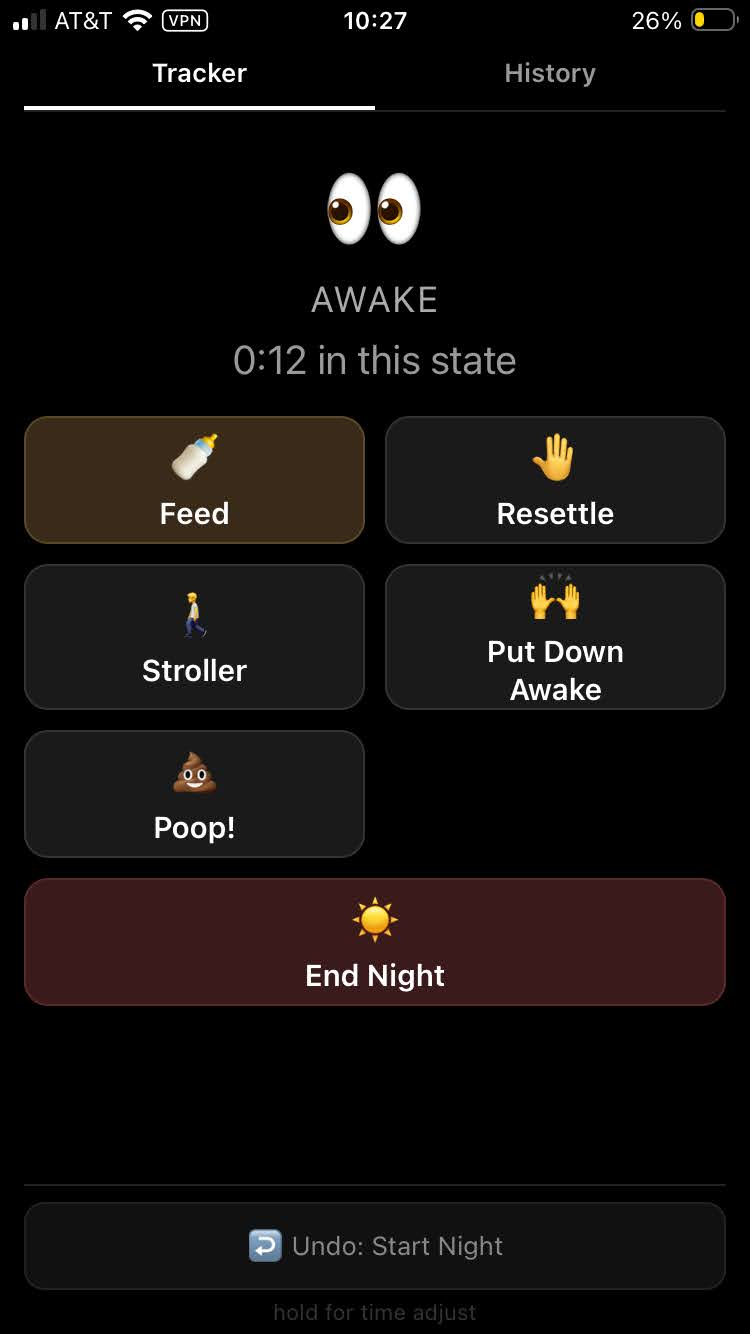
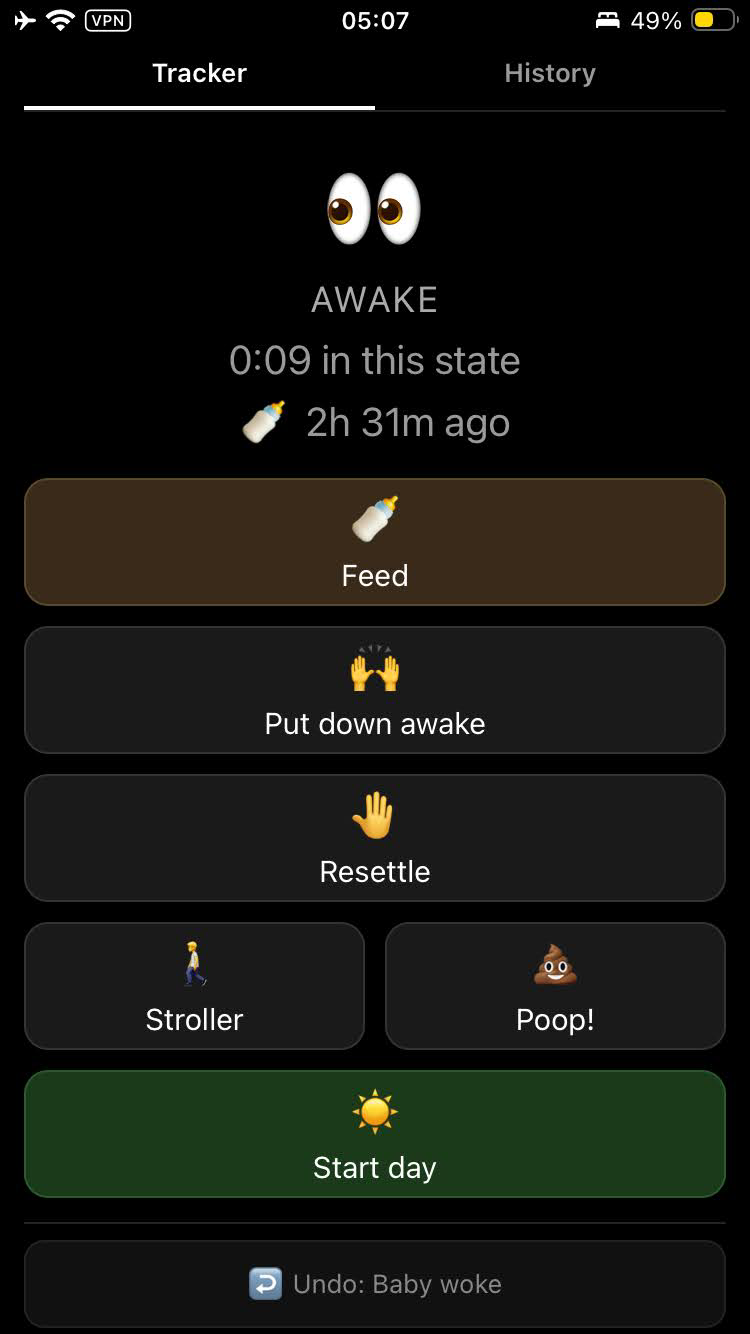
docs: refresh README screenshots and clean up content
Refresh stale screenshots, restructure "What it reports" by tab,
correct two outright wrong claims (PWA service worker, test count),
add backup/anchor/seed-binary docs that were missing, and dedup
phrasing introduced over multiple edit sessions. Also adds
CHAIR_ENABLED to docker-compose.yml for symmetry with FERBER_ENABLED.

diff --git a/README.md b/README.md
@@ -1,16 +1,22 @@
 # Boob O'Clock
 
-A 24-hour baby sleep and feed tracker for breastfeeding parents. Built for one-handed use on a small phone screen.
+A self-hosted, open-source 24-hour baby sleep and feed tracker for breastfeeding parents. No account, no cloud — your data stays on your network. Built for one-handed use on a small phone screen.
 
 Dark mode only. Single tap to record events. Long-press for time adjustments.
+
+<p align="center">
+  <img src="docs/tracker-awake.png" width="250" alt="Tracker — nighttime awake state">
+  <img src="docs/cycles.png" width="250" alt="Cycle card — combined night and day stats">
+  <img src="docs/trends.png" width="250" alt="Trend charts — 24h timelines and intra-sleep feed times">
+</p>
 
 ## Why I built this
 
 It started in the thick of newborn nights. At 3am, mid-feed, I genuinely could not remember which side and when I'd last fed on — and every baby tracker I found wanted an account, cloud sync, and a bright white screen in my face. So I vibecoded this for myself in a few evenings, and it's already been useful enough that I wanted to share it.
 
-As the baby got older, more questions came up alongside the old ones. At 3am: "which side last?" During the day: "how long has the baby been awake?" and "was that nap 20 minutes or 45?" So the app grew a day mode — same state-machine approach, now covering the full 24-hour rhythm.
+As the baby got older, more questions came up alongside the old ones. Middle of the night: "which side last?" During the day: "how long has the baby been awake?" and "was that nap 20 minutes or 45?" So the app grew a day mode — same state-machine approach, now covering the full 24-hour rhythm.
 
-Just your data, on your network, no account and no ads. If Boob O'Clock helped you survive the infant days and nights, you can [buy me a coffee](https://ko-fi.com/polinaturcu) — it means a lot.
+If Boob O'Clock helped you survive the infant days and nights, you can [buy me a coffee](https://ko-fi.com/polinaturcu) — it means a lot.
 
 ## What it tracks
 
@@ -23,38 +29,38 @@ The app models your day and night as a single state machine. Depending on the cu
 - **Self-soothing** — baby put down awake or stirring in crib, settling without intervention.
 - **Resettling** — in-crib settling without a feed.
 - **Strolling** — the nuclear option when the crib isn't working.
-- **Ferber mode** _(off by default)_ — graduated check-in intervals (classic Ferber table), mood tracking (quiet / fussy / crying), and a countdown on the check-in button so you never check in too early. I tried it — the feature worked fine; the method, not so much. Set `FERBER_ENABLED=true` to opt in (no rebuild needed); toggle off any time — past Ferber data stays in the DB and reappears when you turn it back on.
-- **Chair mode** _(off by default)_ — gentle sleep-training where the parent sits in the room while baby falls asleep. On chair nights, "put down awake" is replaced with "sit in chair" — tap when you settle into the chair, then "Settled!" when baby's asleep or "Give up" to abandon. Time-in-state and time-since-feed render live so a partner can glance from across the room. Set `CHAIR_ENABLED=true` to opt in.
+- **Diaper changes** — log a poop from any state without losing context.
+- <a id="ferber-mode"></a>**Ferber mode** _(off by default)_ — graduated check-in intervals (classic Ferber table), mood tracking (quiet / fussy / crying), and a countdown on the check-in button so you never check in too early. I tried it — the feature worked fine; the method, not so much. Set `FERBER_ENABLED=true` to opt in (no rebuild needed); toggle off any time — past Ferber data stays in the DB and reappears when you turn it back on.
+- <a id="chair-mode"></a>**Chair mode** _(off by default)_ — gentle sleep-training where the parent sits in the room while baby falls asleep. On chair nights, "put down awake" is replaced with "sit in chair" — tap when you settle into the chair, then "Settled!" when baby's asleep or "Give up" to abandon. Time-in-state and time-since-feed render live so a partner can glance from across the room. Set `CHAIR_ENABLED=true` to opt in.
 
 ### Day
 - **Day feeds** — same feed tracking as night, with switch-breast suggestion based on the last side.
 - **Naps** — tagged with location (crib / stroller / on me / car). Durations roll up to daily nap stats.
 - **Wake windows** — automatically derived from the awake/nap rhythm, including the last wake window before bedtime.
+- **Diaper changes** — log a poop from any state without losing context.
 
-**Diaper changes** are reachable anytime, day or night. The tracker moves between day and night with a single **Start day** / **Start night** tap — no separate "end" action.
+The tracker moves between day and night with a single **Start day** / **Start night** tap — no separate "end" action.
 
 ## What it reports
 
-- **Cycle view**: one card per 24h midnight-to-midnight window, stacked chronologically. Each card shows a color-coded timeline bar of the full day and the following night, tinted day/night sections, and live sleep/wake duration pills (the in-progress segment blinks).
-- Per-night summary: night duration, total sleep, total feed time, wake count, feed count, longest sleep block, individual sleep block durations, feed times
-- Per-day summary: nap count, total nap time, longest nap, day feed count and duration, wake windows, last wake window before bedtime
-- Ferber nights (when enabled) also show sessions, average time to settle, cry time, fuss time, check-ins, abandoned sessions, and quiet time
-- Full event log with timestamps
-- Feed times scatter plot showing when feeds happen across 24 hours
-- Real bedtime chart showing when the baby actually goes down
-- Trend charts with moving averages: longest sleep, total sleep, wake count, feed count, total feed time, feed time by breast (L/R), nap count, total nap time
-- Ferber trend charts (when any night had Ferber on): cry time per night, check-ins per night, avg time to settle
-- Ferber nights are highlighted as sage-green blocks on all non-Ferber trend charts, so you can correlate Ferber periods with broader sleep/feed changes
-- Chair nights are highlighted as mauve blocks on trend charts (parallel to Ferber's sage-green) and tagged with 🪑 in the cycles list
-- CSV export for backup or analysis
+Two views in the History tab: **Cycles** (one card per 24h window, stacked chronologically) and **Trends (30d)** (charts across the last month).
 
-## Screenshots
+**Cycles** — each card has:
+- A color-coded timeline bar with tinted day/night sections and live duration pills (the in-progress segment blinks).
+- **Night**: total sleep, longest sleep block, wake count, feed time, feed count, individual sleep block durations, feed times.
+- **Day**: total nap time, longest nap, nap count, day feed count and duration, wake windows (including the last one before bedtime).
+- Full event log with timestamps.
 
-<p align="center">
-  <img src="docs/tracker-awake.png" width="250" alt="Tracker — awake state">
-  <img src="docs/night-detail.png" width="250" alt="Night detail with timeline">
-  <img src="docs/trends.png" width="250" alt="Trend charts with moving averages">
-</p>
+**Trends (30d)**:
+- **24h cycle strip** — every recent cycle stacked as a colored bar so patterns pop at a glance.
+- **Scatter plots** — intra-sleep feed times across 24h, real bedtime, intra-sleep vs. other feeds per cycle.
+- **Moving-average lines** — longest sleep, total sleep, wake count, feed count, total feed time, feed time by breast (L/R), nap count, total nap time.
+
+**Sleep-training overlays** (when enabled):
+- **Ferber** cycles show per-night sessions, avg time to settle, cry/fuss/quiet time, check-in count, and abandoned sessions. Dedicated trend charts for cry time, check-ins, and time to settle. Ferber nights are tagged with 🌱 in the cycles list and highlighted as sage-green blocks on every other trend chart, so you can correlate Ferber periods with broader sleep/feed changes.
+- **Chair** nights are tagged with 🪑 in the cycles list and highlighted as mauve blocks on trend charts (parallel to Ferber's sage-green).
+
+**Export**: CSV download of all events for backup or analysis.
 
 ## Deploy
 
@@ -109,13 +115,19 @@ make build
 ./boob-o-clock -addr :8080 -db ./boob-o-clock.db
 ```
 
+Back up by copying the SQLite file at the path you passed to `-db` (the server can keep running — SQLite handles the read):
+
+```bash
+cp ./boob-o-clock.db ./backup.db
+```
+
 ### Configuration
 
 | Env | Flag | Default | Description |
 |---|---|---|---|
-| `PORT` | `-addr :PORT` | `8080` | Listen port |
-| `FERBER_ENABLED` | `-ferber` | `false` | Enable Ferber sleep-training mode (see [What it tracks](#what-it-tracks)) |
-| `CHAIR_ENABLED` | `-chair` | `false` | Enable Chair sleep-training mode (see [What it tracks](#what-it-tracks)) |
+| `PORT` | `-addr` | `:8080` | Listen address. `PORT` takes a port number (`8080`); `-addr` takes a full address (`:8080`) and overrides `PORT` if both are set. |
+| `FERBER_ENABLED` | `-ferber` | `false` | Enable [Ferber mode](#ferber-mode) (graduated check-in intervals + mood tracking) |
+| `CHAIR_ENABLED` | `-chair` | `false` | Enable [Chair mode](#chair-mode) (parent sits in the room while baby falls asleep) |
 
 For Docker Compose, set these under `environment:` in `docker-compose.yml` and run `docker compose up -d` to apply.
 
@@ -123,7 +135,7 @@ For Docker Compose, set these under `environment:` in `docker-compose.yml` and r
 
 Open `http://<your-server-ip>:8080` in Safari and tap **Share → Add to Home Screen**. The app launches fullscreen like a native app.
 
-> **Note:** The PWA service worker requires HTTPS on non-localhost. For local network use, accessing via IP on HTTP works fine — you just won't get offline caching. To enable HTTPS, put a reverse proxy (Caddy, nginx) in front with a self-signed or Let's Encrypt cert.
+> **Note:** The app installs to the home screen via its manifest, but doesn't ship a service worker — so there's no offline caching, and the app needs to reach the server to work. HTTP works fine over a home LAN; for HTTPS, put a reverse proxy (Caddy, nginx) in front with a self-signed or Let's Encrypt cert.
 
 ## Develop
 
@@ -149,15 +161,17 @@ Generates one orphan historical night followed by full (day, night) cycles and a
 ### Test
 
 ```bash
-make test              # Go tests (150+ tests across 4 packages)
-cd web && npx tsc      # TypeScript type check
-cd web && npm run lint # ESLint (react-hooks rules)
+make test                  # Go tests (190+ tests across 4 packages)
+cd web && npx tsc --noEmit # TypeScript type check
+cd web && npm run lint     # ESLint (react-hooks rules)
 ```
 
 ### Project structure
 
 ```
-├── cmd/server/          Entry point, wiring, embed
+├── cmd/
+│   ├── server/          Entry point, wiring
+│   └── seed/            Dev fixture generator
 ├── internal/
 │   ├── domain/          Unified state machine (18 states, 56 transitions, zero deps)
 │   ├── store/           SQLite persistence (pure Go, no CGo)
